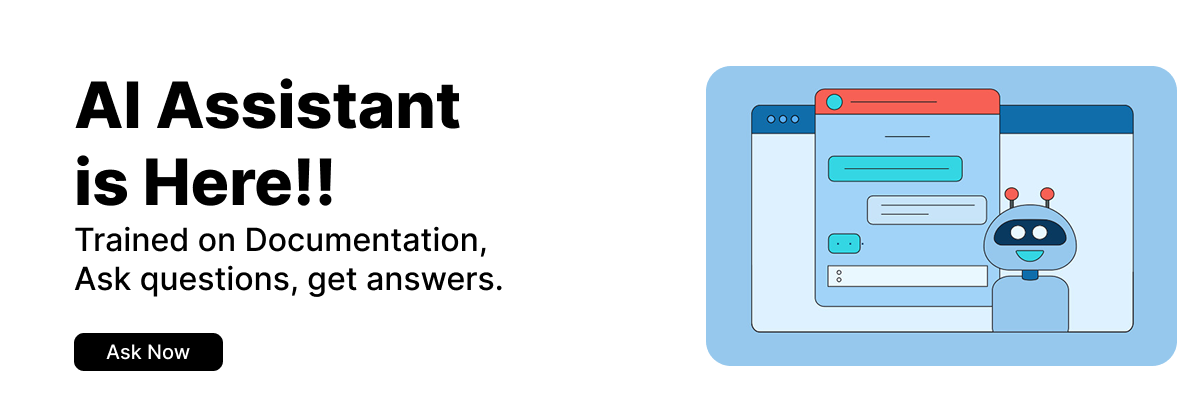
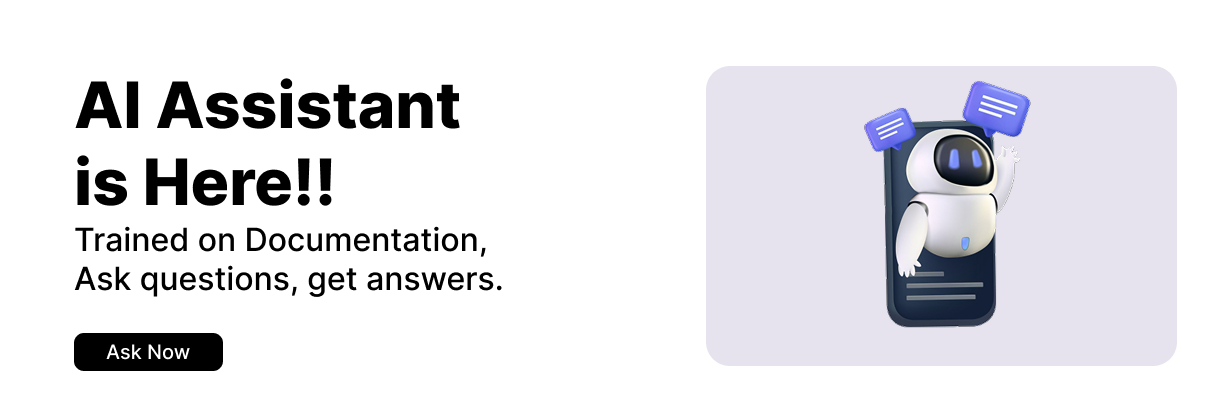
fix: Disable line numbers in CodeBlock component and update bargraph documentation with custom color example

diff --git a/app/components/CodeBlock.tsx b/app/components/CodeBlock.tsx
@@ -71,7 +71,7 @@ export const CodeBlock = ({ children, className, ...props }: any) => {
           fontSize: "0.875rem",
           lineHeight: "1.5",
         }}
-        showLineNumbers={codeContent.split("\n").length > 3}
+        showLineNumbers={false}
         wrapLines={true}
         wrapLongLines={true}
         {...props}
